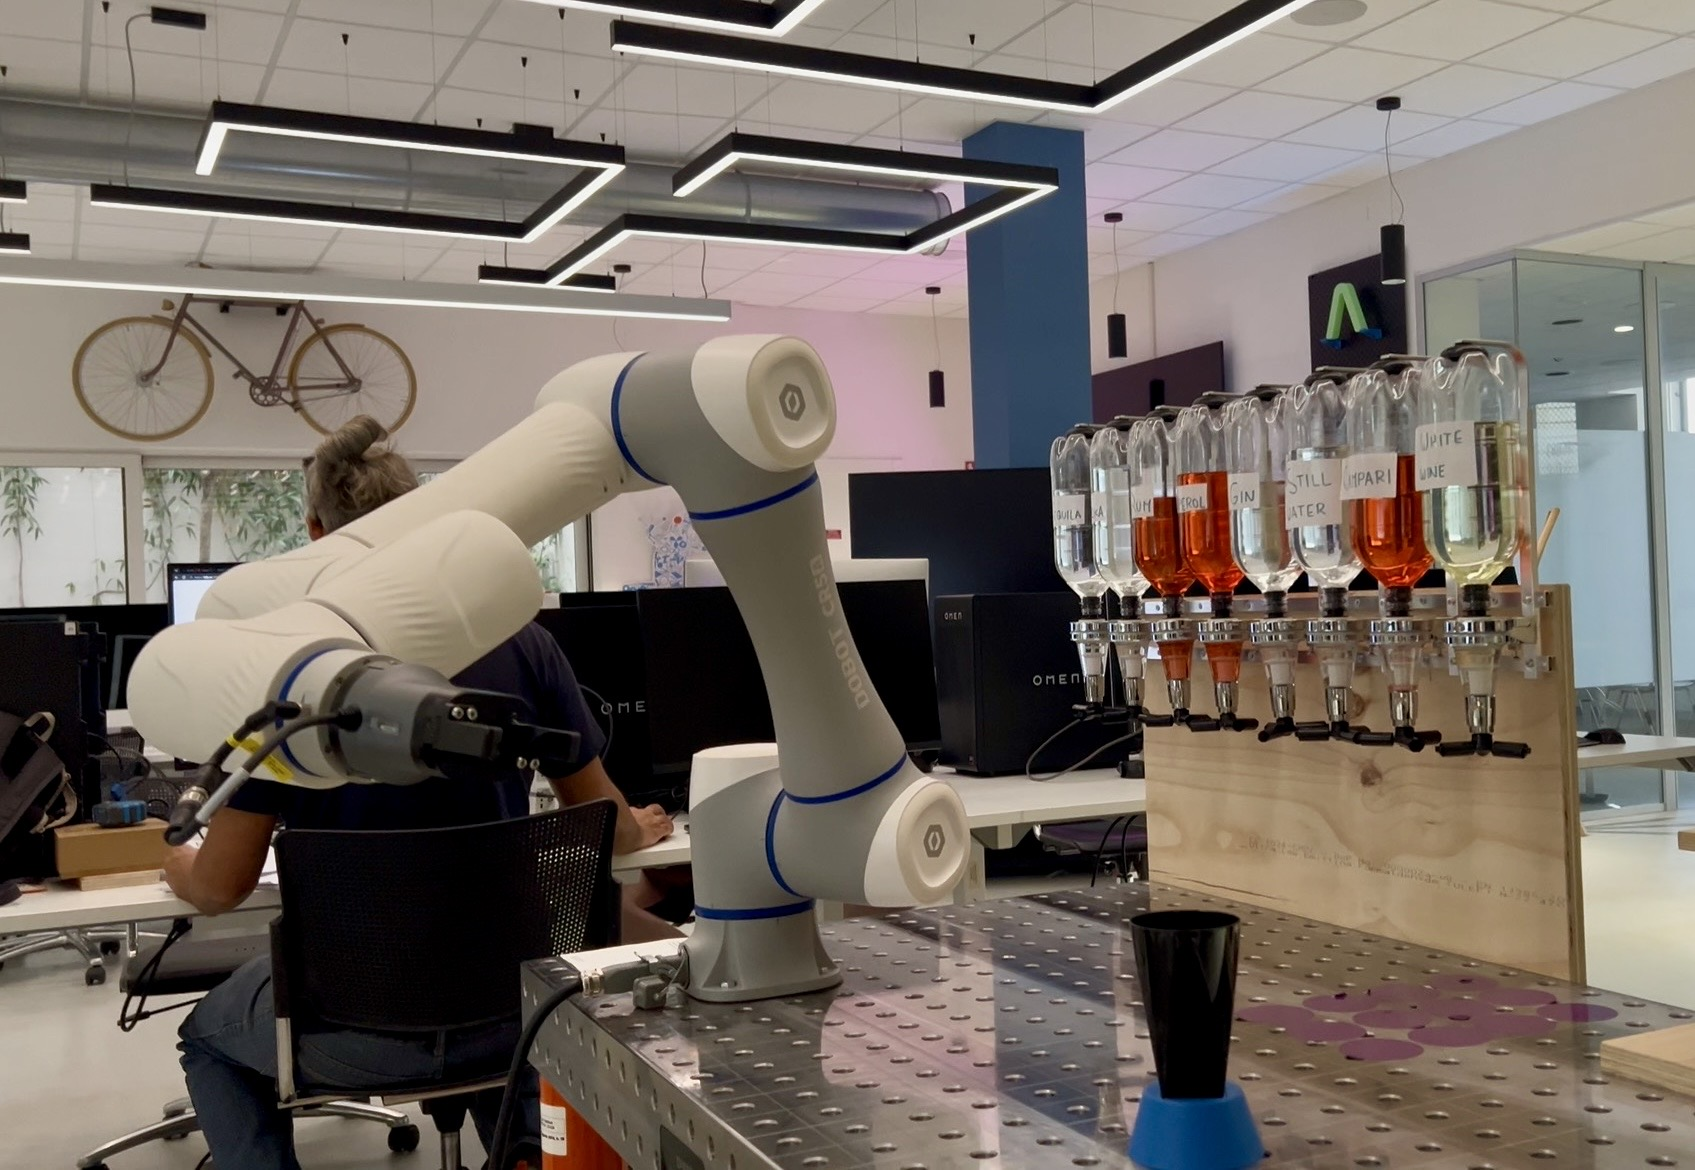
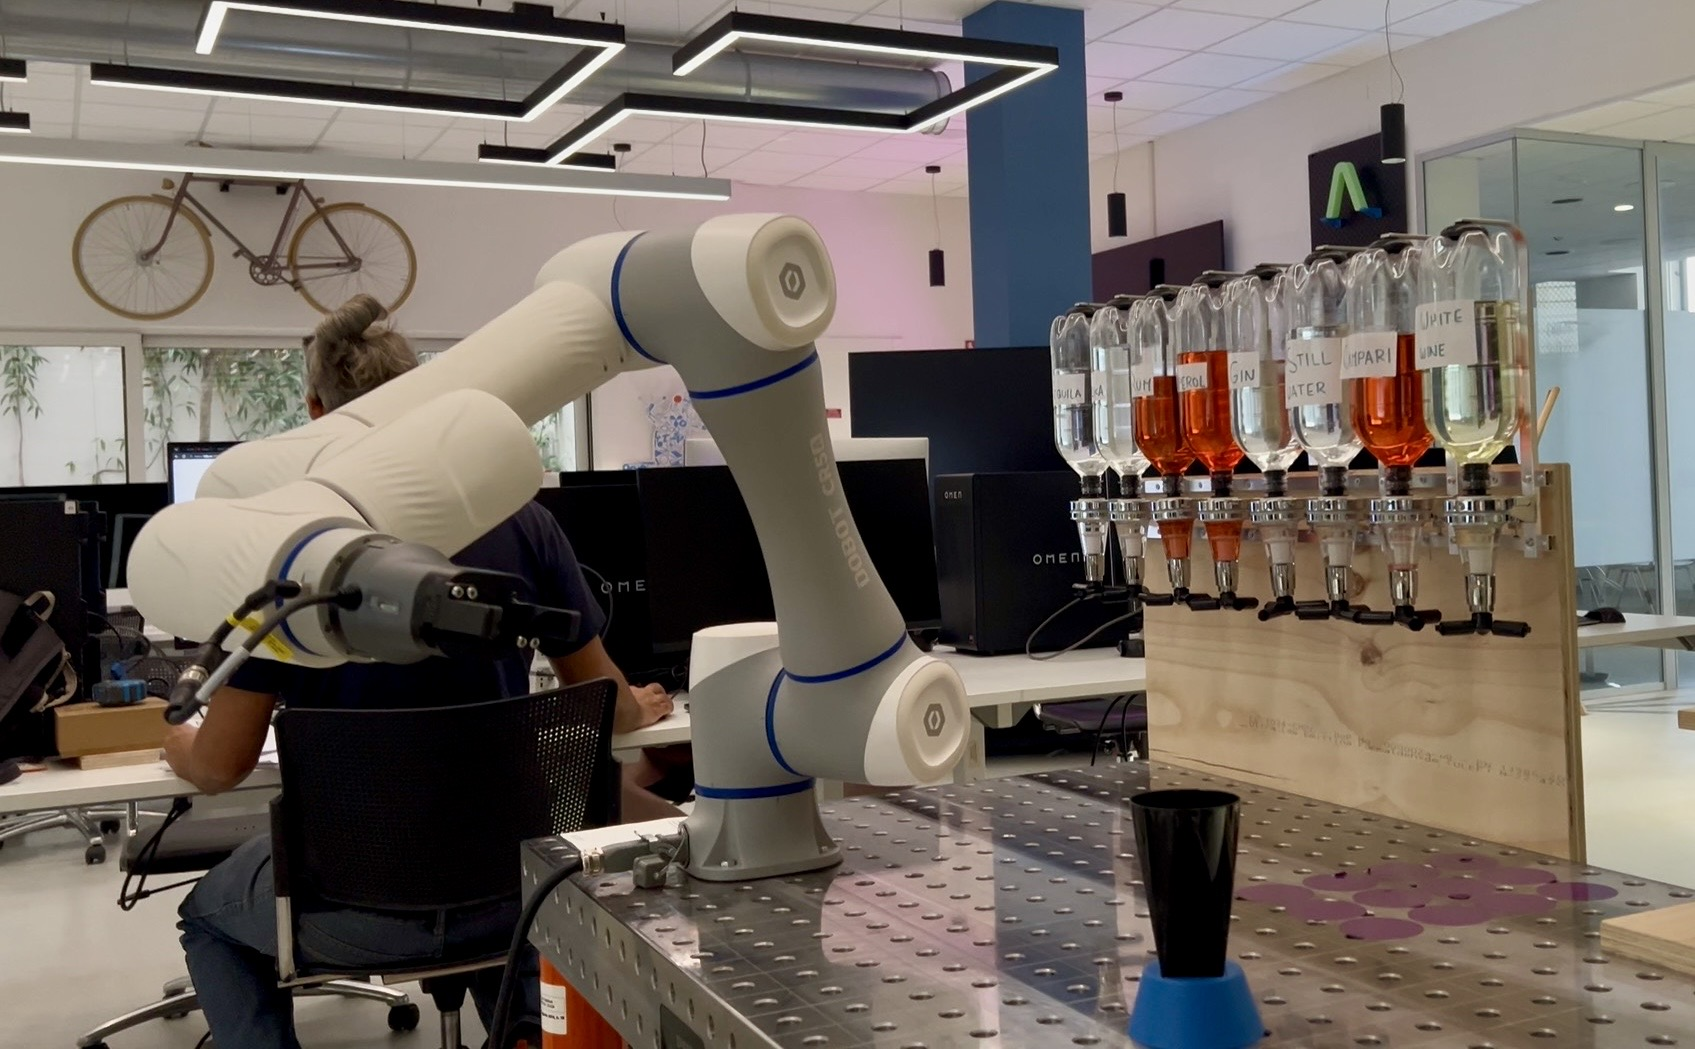
Editing media

diff --git a/src/pages/projects/project5.js b/src/pages/projects/project5.js
@@ -2,12 +2,12 @@ import React from "react"
 import Layout from "../../components/layout"
 import { useLanguage } from "../../contexts/LanguageContext"
 
-import videoDrink from "../../images/publications/Project4_Video4_old.mp4"
-import videoSetup from "../../images/publications/Project4_Video4_old.mp4"
-import fotoMenu from "../../images/publications/Project5_Photo1.jpg"
-import fotoCustom from "../../images/publications/Project5_Photo1.jpg"
-import fotoCustomer from "../../images/publications/Project5_Photo1.jpg"
-import fotoOperator from "../../images/publications/Project5_Photo1.jpg"
+import videoDrink from "../../images/publications/Project4_Video1.mp4"
+import videoSetup from "../../images/publications/Project4_Video2.mp4"
+import fotoMenu from "../../images/publications/Project5_Photo2.png"
+import fotoCustom from "../../images/publications/Project5_Photo3.png"
+import fotoCustomer from "../../images/publications/Project5_Photo4.png"
+import fotoOperator from "../../images/publications/Project5_Photo5.png"
 
 const ProjectContent = () => {
   const { language } = useLanguage();
